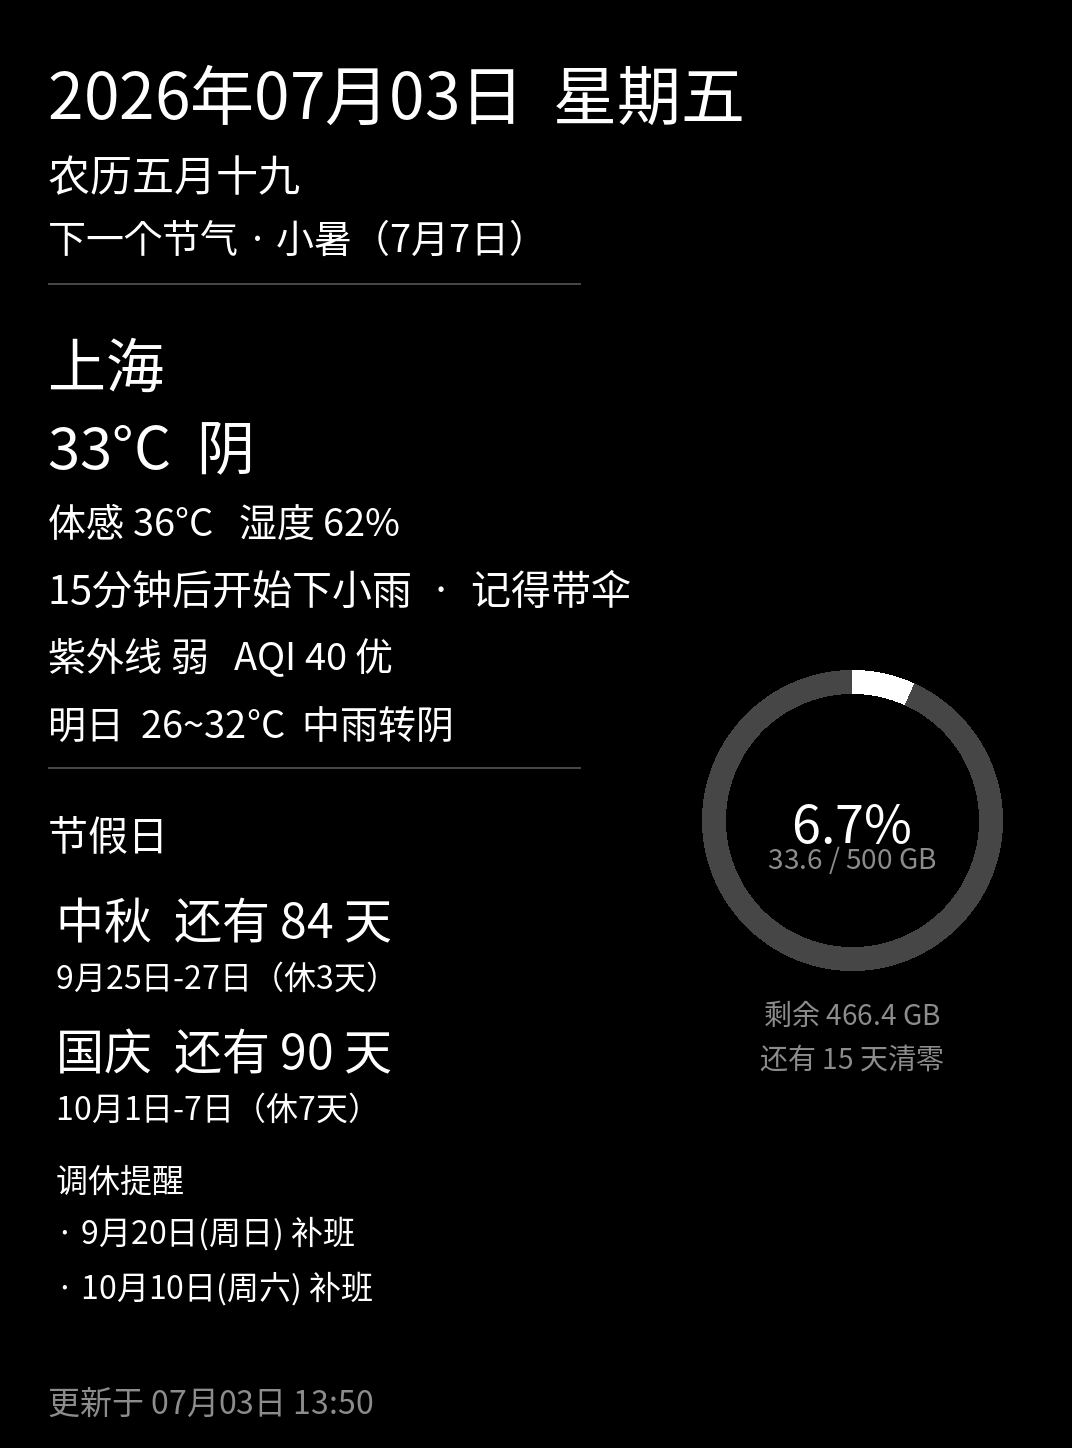
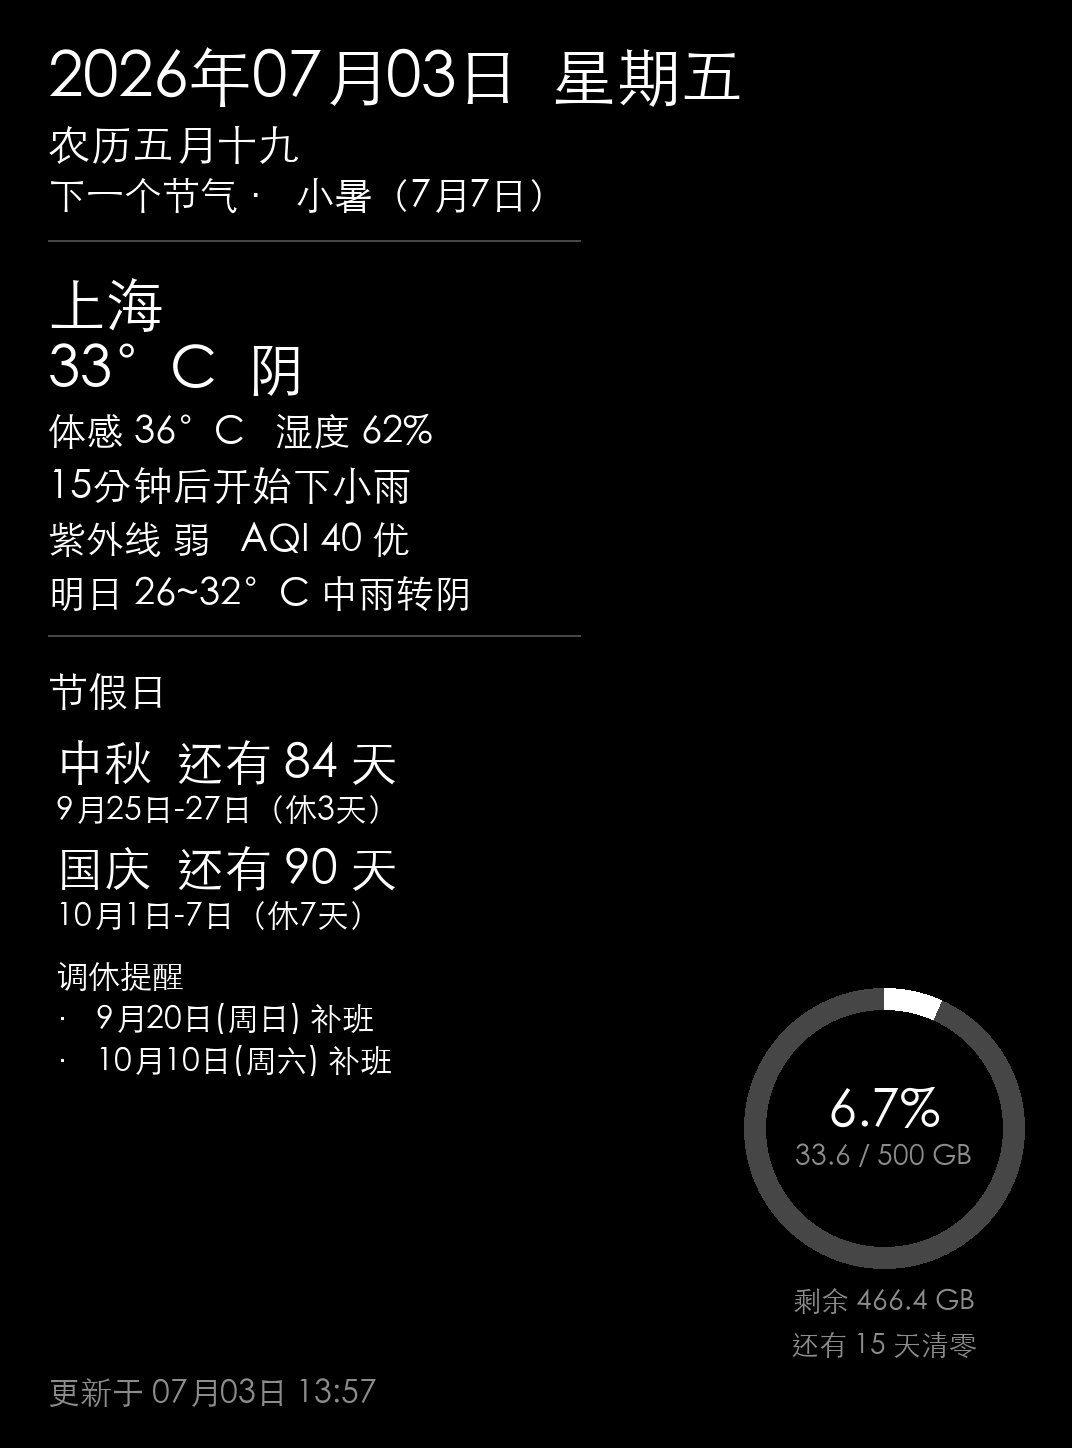
update

diff --git a/render_dashboard.py b/render_dashboard.py
@@ -108,10 +108,41 @@ def draw_centered_text(
     *,
     fill: int,
 ) -> None:
-    bbox = draw.textbbox((0, 0), text, font=font)
-    width = bbox[2] - bbox[0]
-    height = bbox[3] - bbox[1]
-    draw.text((cx - width // 2, cy - height // 2), text, fill=fill, font=font)
+    draw.text((cx, cy), text, fill=fill, font=font, anchor="mm")
+
+
+def draw_donut_inner_text(
+    draw: ImageDraw.ImageDraw,
+    cx: int,
+    cy: int,
+    percent_text: str,
+    usage_text: str,
+    percent_font,
+    usage_font,
+    *,
+    text_color: int,
+    muted_color: int,
+) -> None:
+    spacing = 12
+    bbox_p = draw.textbbox((0, 0), percent_text, font=percent_font)
+    bbox_u = draw.textbbox((0, 0), usage_text, font=usage_font)
+    h_p = bbox_p[3] - bbox_p[1]
+    h_u = bbox_u[3] - bbox_u[1]
+
+    draw.text(
+        (cx, cy - (h_u + spacing) / 2),
+        percent_text,
+        fill=text_color,
+        font=percent_font,
+        anchor="mm",
+    )
+    draw.text(
+        (cx, cy + (h_p + spacing) / 2),
+        usage_text,
+        fill=muted_color,
+        font=usage_font,
+        anchor="mm",
+    )
 
 
 def draw_vpn_donut(
@@ -139,19 +170,19 @@ def draw_vpn_donut(
     percent_font = find_font(52)
     detail_font = find_font(28)
 
-    draw_centered_text(
-        draw, cx, cy - 18, f"{usage.used_percent:.1f}%", percent_font, fill=text_color
-    )
-    draw_centered_text(
+    draw_donut_inner_text(
         draw,
         cx,
-        cy + 30,
+        cy,
+        f"{usage.used_percent:.1f}%",
         f"{usage.used_gb:.1f} / {usage.limit_gb:.0f} GB",
+        percent_font,
         detail_font,
-        fill=muted_color,
+        text_color=text_color,
+        muted_color=muted_color,
     )
 
-    label_y = cy + radius + 36
+    label_y = cy + radius + 32
     draw_centered_text(
         draw,
         cx,
@@ -166,6 +197,17 @@ def draw_vpn_donut(
     else:
         reset_text = f"还有 {usage.days_until_reset} 天清零"
     draw_centered_text(draw, cx, label_y + 44, reset_text, detail_font, fill=muted_color)
+
+
+def vpn_widget_position(width: int, height: int, *, radius: int) -> tuple[int, int]:
+    margin = 48
+    below_ring = 32
+    line_gap = 44
+    caption_h = 28
+    tail = below_ring + line_gap + caption_h * 2
+    cx = width - margin - radius
+    cy = height - margin - radius - tail
+    return cx, cy
 
 
 def render_dashboard(data: DashboardData, output_path: Path) -> Path:
@@ -254,13 +296,15 @@ def render_dashboard(data: DashboardData, output_path: Path) -> Path:
             y = text_bottom(draw, margin + 8, y, f"· {line}", detail_font, fill=text_color) + 10
 
     if data.vpn_usage is not None:
+        vpn_radius = 140
+        vpn_cx, vpn_cy = vpn_widget_position(width, height, radius=vpn_radius)
         draw_vpn_donut(
             draw,
             data.vpn_usage,
-            cx=width - 220,
-            cy=820,
-            radius=150,
-            thickness=24,
+            cx=vpn_cx,
+            cy=vpn_cy,
+            radius=vpn_radius,
+            thickness=22,
             colors=colors,
         )
 